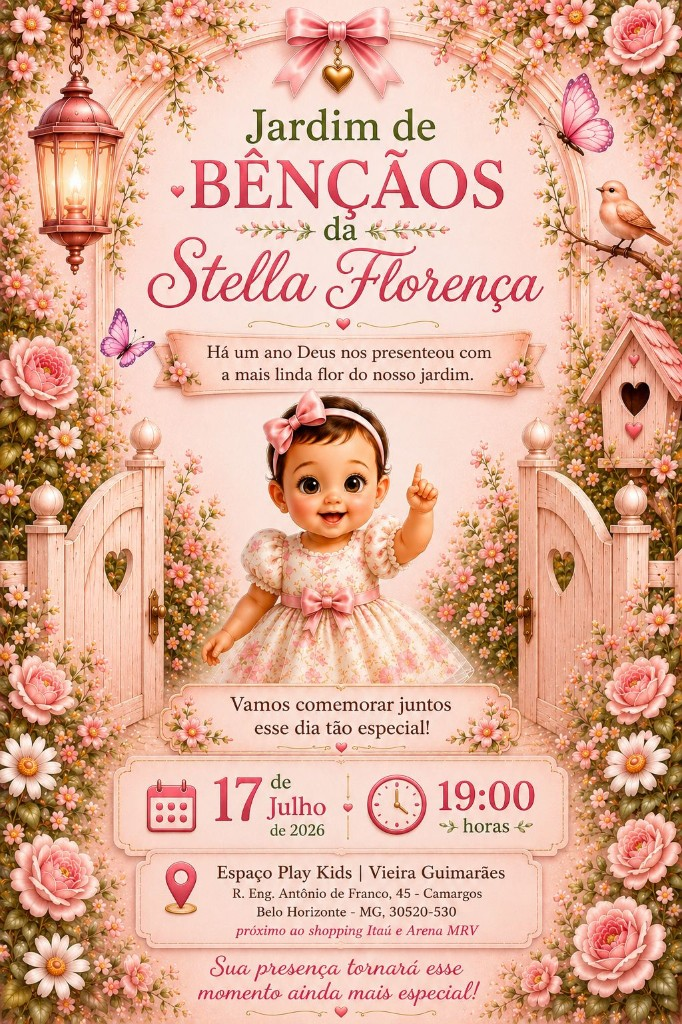
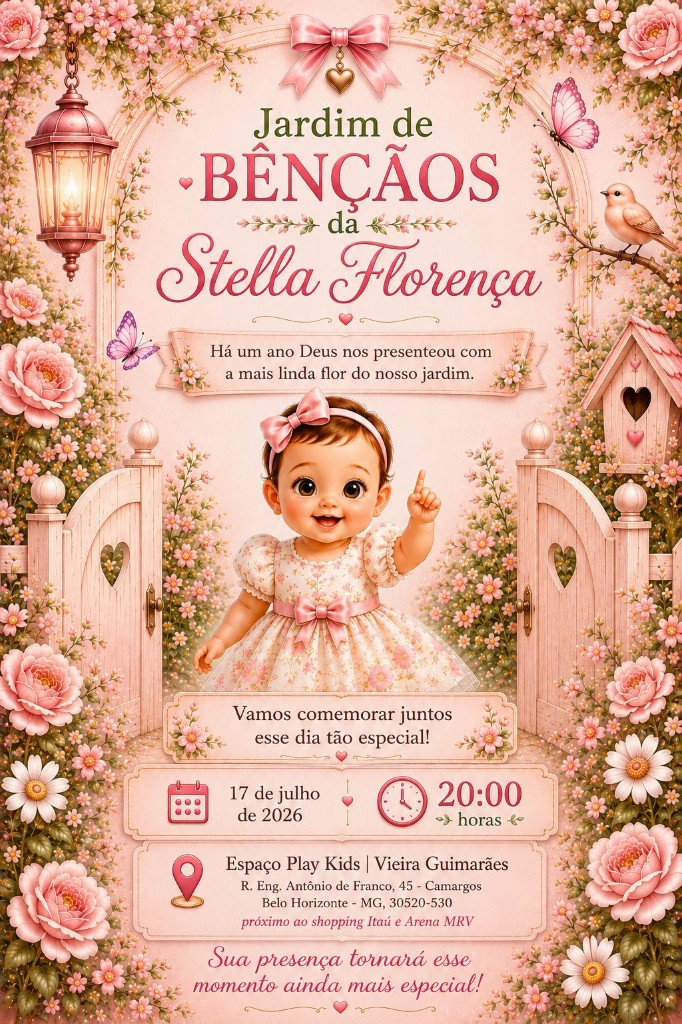
alterado convite

diff --git a/public/email-template.js b/public/email-template.js
@@ -31,7 +31,9 @@ function montarEmailIndividualHtml(convidado, baseUrl, evento) {
             </p>
             <p style="margin:0 0 8px;font-size:15px;color:#4a2c3d;"><strong style="color:#5a7d62;">Data:</strong> ${evento.data}</p>
             <p style="margin:0 0 8px;font-size:15px;color:#4a2c3d;"><strong style="color:#5a7d62;">Horário:</strong> ${evento.hora}</p>
-            <p style="margin:0 0 24px;font-size:15px;color:#4a2c3d;"><strong style="color:#5a7d62;">Local:</strong> ${evento.local}</p>
+            <p style="margin:0 0 8px;font-size:15px;color:#4a2c3d;"><strong style="color:#5a7d62;">Local:</strong> ${evento.local}</p>
+            ${evento.endereco ? `<p style="margin:0 0 8px;font-size:15px;color:#4a2c3d;"><strong style="color:#5a7d62;">Endereço:</strong> ${evento.endereco}</p>` : ''}
+            <p style="margin:0 0 24px;font-size:15px;color:#4a2c3d;">${evento.referencia ? `<strong style="color:#5a7d62;">Referência:</strong> ${evento.referencia}` : ''}</p>
             <p style="margin:0 0 16px;font-size:16px;color:#4a2c3d;">Por favor, confirme sua presença:</p>
             <a href="${link}" style="display:inline-block;background:#b83a6b;color:#ffffff;padding:14px 28px;text-decoration:none;border-radius:8px;font-size:16px;font-weight:bold;">Confirmar presença</a>
             <p style="margin:24px 0 0;font-size:13px;color:#a08090;line-height:1.5;">
@@ -80,7 +82,9 @@ function montarEmailGrupoHtml(grupo, baseUrl, evento) {
             </p>
             <p style="margin:0 0 8px;font-size:15px;color:#4a2c3d;"><strong style="color:#5a7d62;">Data:</strong> ${evento.data}</p>
             <p style="margin:0 0 8px;font-size:15px;color:#4a2c3d;"><strong style="color:#5a7d62;">Horário:</strong> ${evento.hora}</p>
-            <p style="margin:0 0 16px;font-size:15px;color:#4a2c3d;"><strong style="color:#5a7d62;">Local:</strong> ${evento.local}</p>
+            <p style="margin:0 0 8px;font-size:15px;color:#4a2c3d;"><strong style="color:#5a7d62;">Local:</strong> ${evento.local}</p>
+            ${evento.endereco ? `<p style="margin:0 0 8px;font-size:15px;color:#4a2c3d;"><strong style="color:#5a7d62;">Endereço:</strong> ${evento.endereco}</p>` : ''}
+            ${evento.referencia ? `<p style="margin:0 0 16px;font-size:15px;color:#4a2c3d;"><strong style="color:#5a7d62;">Referência:</strong> ${evento.referencia}</p>` : '<p style="margin:0 0 16px;"></p>'}
             <p style="margin:0 0 8px;font-size:15px;color:#4a2c3d;font-weight:bold;">Pessoas neste convite:</p>
             <ul style="margin:0 0 20px;padding-left:20px;">${listaMembros}</ul>
             <p style="margin:0 0 16px;font-size:16px;color:#4a2c3d;">Um clique confirma a presença de todos:</p>
@@ -110,6 +114,7 @@ Pessoas: ${membros}
 Data: ${evento.data}
 Horário: ${evento.hora}
 Local: ${evento.local}
+${evento.endereco ? `Endereço: ${evento.endereco}\n` : ''}${evento.referencia ? `Referência: ${evento.referencia}\n` : ''}
 
 Confirme a presença de todos acessando:
 ${item.link}`;
@@ -122,6 +127,7 @@ Você está convidado(a) para o ${evento.titulo} da ${evento.aniversariante}.
 Data: ${evento.data}
 Horário: ${evento.hora}
 Local: ${evento.local}
+${evento.endereco ? `Endereço: ${evento.endereco}\n` : ''}${evento.referencia ? `Referência: ${evento.referencia}\n` : ''}
 
 Confirme sua presença acessando o link:
 ${item.link}

diff --git a/public/index.html b/public/index.html
@@ -6,7 +6,7 @@
   <title>Confirmar presença — Stella Florença</title>
   <meta name="description" content="Confirme sua presença no Jardim de Bênçãos da Stella Florença" />
   <meta property="og:title" content="Jardim de Bênçãos — Stella Florença" />
-  <meta property="og:description" content="17 de Julho de 2026 · Espaço Play Kids" />
+  <meta property="og:description" content="17 de Julho de 2026 · 20:00 · Espaço Play Kids" />
   <meta property="og:image" content="/convite.png" />
   <meta property="og:type" content="website" />
   <link rel="preconnect" href="https://fonts.googleapis.com" />
@@ -207,8 +207,10 @@
 
       <div class="detalhes" id="detalhes">
         <div><span>Data:</span> <span id="evtData">17 de Julho de 2026</span></div>
-        <div><span>Horário:</span> <span id="evtHora">19:00</span></div>
-        <div><span>Local:</span> <span id="evtLocal">Espaço Play Kids</span></div>
+        <div><span>Horário:</span> <span id="evtHora">20:00</span></div>
+        <div><span>Local:</span> <span id="evtLocal">Espaço Play Kids | Vieira Guimarães</span></div>
+        <div id="evtEndereco" class="hidden"><span>Endereço:</span> <span id="evtEnderecoTexto"></span></div>
+        <div id="evtReferencia" class="hidden"><span>Referência:</span> <span id="evtReferenciaTexto"></span></div>
       </div>
 
       <form id="form" novalidate>
@@ -249,6 +251,14 @@
         document.getElementById('evtData').textContent = evt.data;
         document.getElementById('evtHora').textContent = evt.hora;
         document.getElementById('evtLocal').textContent = evt.local;
+        if (evt.endereco) {
+          document.getElementById('evtEnderecoTexto').textContent = evt.endereco;
+          document.getElementById('evtEndereco').classList.remove('hidden');
+        }
+        if (evt.referencia) {
+          document.getElementById('evtReferenciaTexto').textContent = evt.referencia;
+          document.getElementById('evtReferencia').classList.remove('hidden');
+        }
         document.title = `Confirmar presença — ${evt.aniversariante}`;
       })
       .catch(() => {});

diff --git a/server.js b/server.js
@@ -172,6 +172,11 @@ function checarSenha(senha, res) {
 
 const app = express();
 app.use(express.json());
+
+app.get('/health', (req, res) => {
+  res.status(200).send('ok');
+});
+
 app.use(express.static(path.join(__dirname, 'public')));
 
 app.get('/api/convidado/:token', (req, res) => {
@@ -449,8 +454,10 @@ app.delete('/api/grupos/:id', (req, res) => {
   return res.json({ ok: true });
 });
 
-app.listen(PORT, () => {
-  console.log(`Servidor rodando em http://localhost:${PORT}`);
-  console.log(`Painel admin: http://localhost:${PORT}/admin.html`);
+const HOST = process.env.HOST || '0.0.0.0';
+
+app.listen(PORT, HOST, () => {
+  console.log(`Servidor rodando em http://${HOST}:${PORT}`);
+  console.log(`Painel admin: /admin.html`);
   console.log(`Senha admin padrão: ${ADMIN_SENHA} (altere com ADMIN_SENHA=...)`);
 });

diff --git a/DEPLOY.md b/DEPLOY.md
@@ -55,10 +55,20 @@ Sem volume, a lista de convidados some a cada redeploy.
 2. **Mount Path:** `/app/data`
 3. Salvar e redeployar
 
-### 6. Domínio público
+### 6. Domínio público e porta
 
-1. **Settings** → **Networking** → **Generate Domain**
-2. Use essa URL como `BASE_URL`
+1. **Settings** → **Networking** → **Generate Domain** (se ainda não tiver)
+2. Em **Public Networking**, confira se a porta aponta para a variável **`PORT`** do Railway (geralmente `8080`)
+3. O deploy precisa ficar **Active / Success** (não *Failed* ou *Crashed*)
+
+Use a URL gerada como `BASE_URL`.
+
+### Site retorna 404?
+
+1. **Networking** → verifique se o domínio está no **mesmo serviço** que roda `node server.js`
+2. **Deployments** → o último deploy está verde? Se o health check falhar, a URL pública pode dar 404
+3. Confirme que a pasta `public/` foi enviada ao GitHub (`index.html` precisa estar no repositório)
+4. Após atualizar o código (bind `0.0.0.0` + rota `/health`), faça **Redeploy**
 
 ### 7. Importar convidados
 
